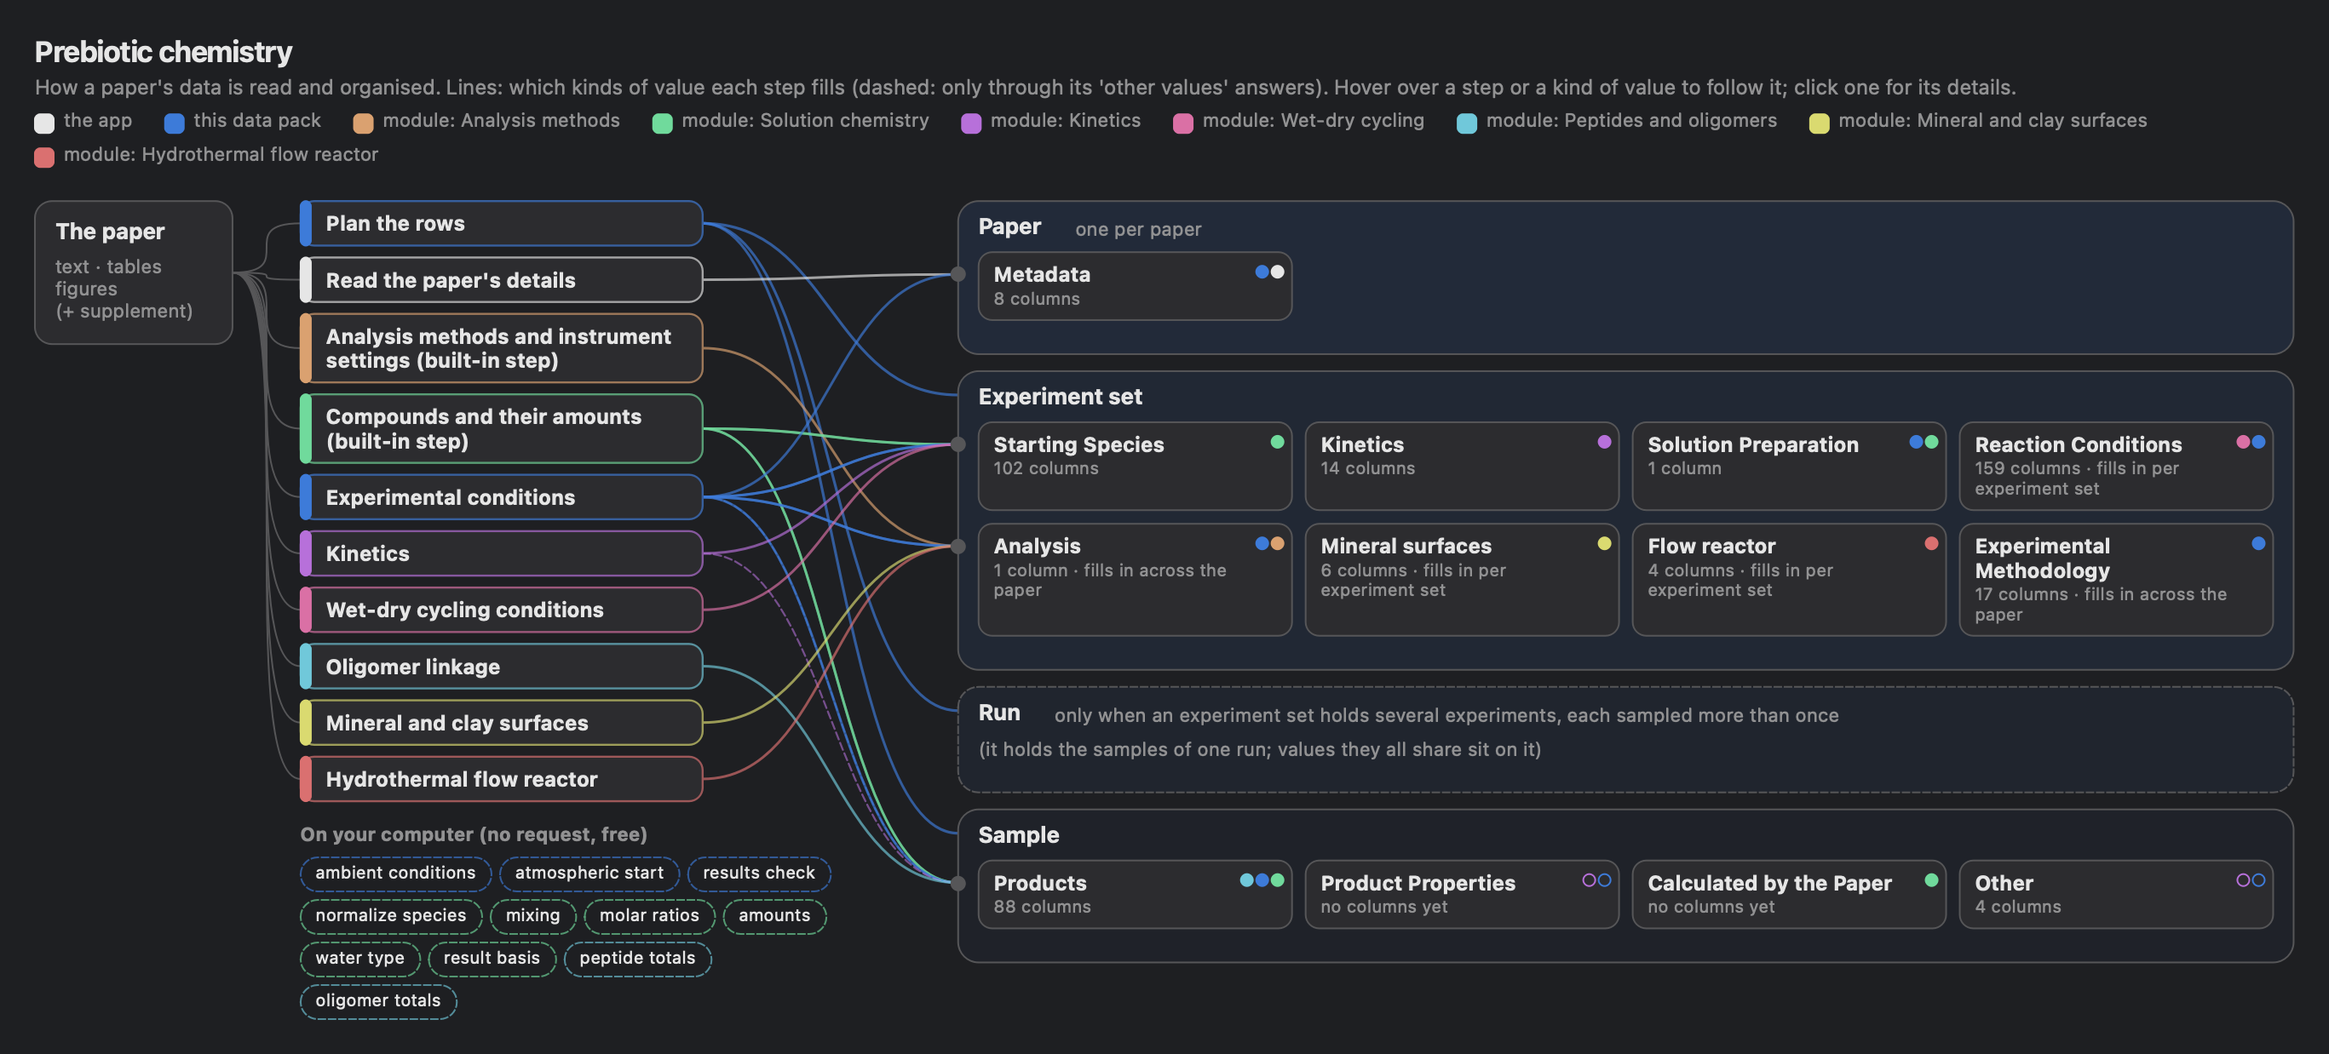
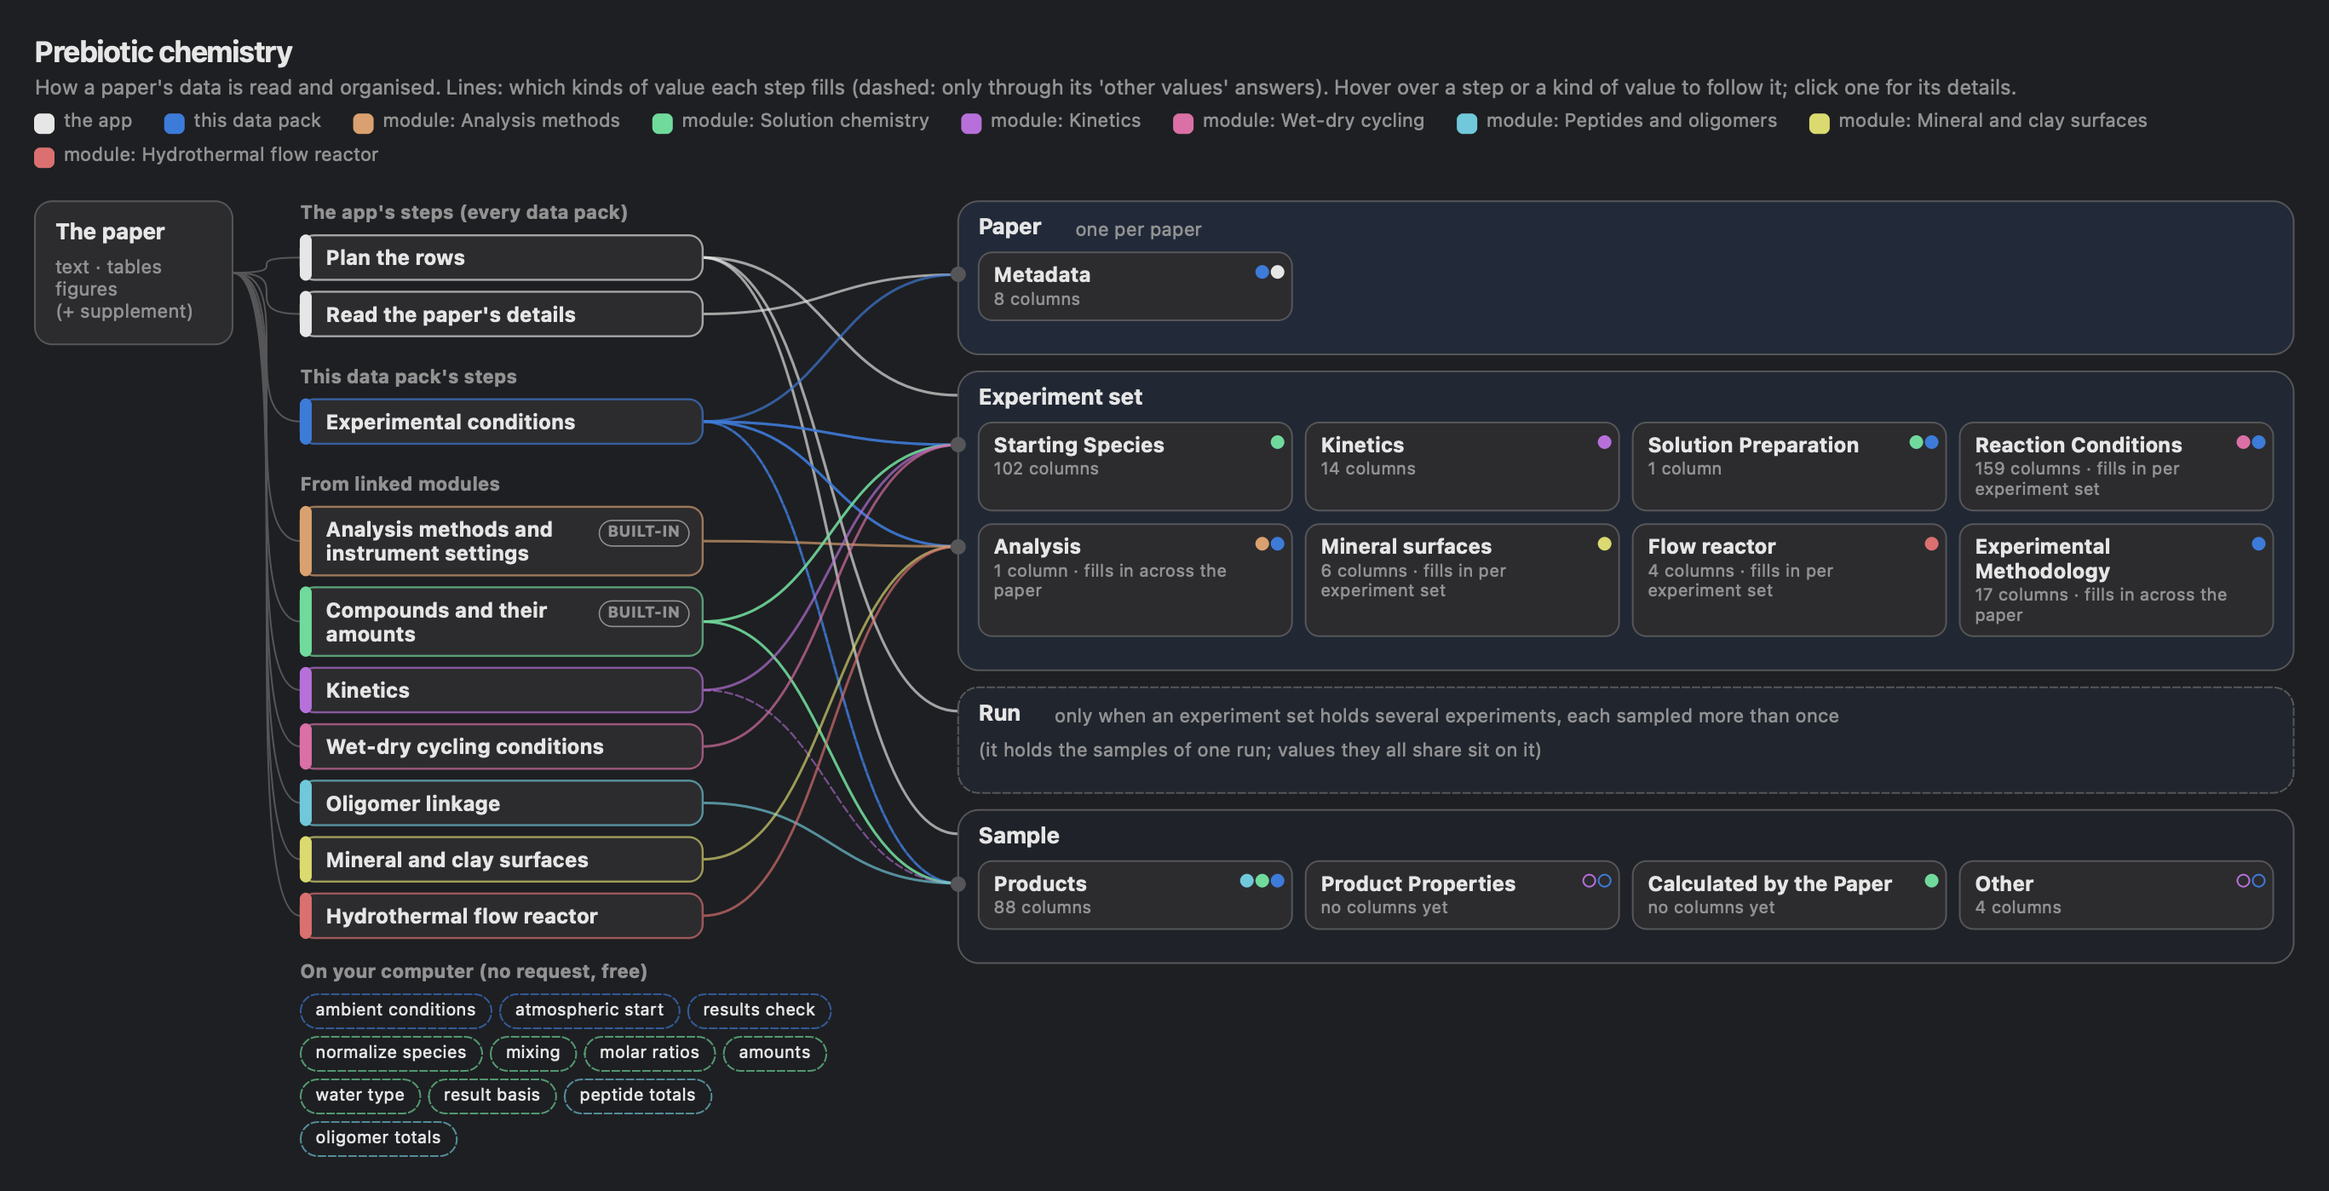
levels-and-facets: Map steps grouped by source (the app's, this pack's, linked modules') with a BUILT-IN tag, levels fade on hover unless they hold what's lit; the Variable categories window (and Structure page) no longer draw replaced cell widgets over a refill

Changed region(s): [[0.0, 0.0307, 0.9949, 0.9822], [0.9638, 0.8288, 0.9949, 0.8595], [0.9638, 0.7367, 0.9949, 0.7674]]

diff --git a/src/parameter_extractor/gui/structure_canvas.py b/src/parameter_extractor/gui/structure_canvas.py
@@ -43,6 +43,7 @@ TAGS = 1         # item data: the steps and kinds a line or dot connects (frozen
 BODY = 2         # item data: a step's or card's outline (outlined in the accent colour while hovered)
 PEN = 3          # item data: its own pen, put back after
 TARGET = 4       # item data: a part without hovering that can still be opened elsewhere ("level:<id>", "paper")
+LANE = 5         # item data: a level's lane and its words (lit while what's hovered has a kind of value in it)
 
 
 @dataclass
@@ -55,6 +56,12 @@ class Step:
     kinds: List[str] = field(default_factory=list)       # category ids its columns belong to
     other_kinds: List[str] = field(default_factory=list)  # kinds only its 'other values' answers may fill
     makes_rows: bool = False
+    built_in: bool = False      # written in the app's code (its instructions fixed) -- not a configurable step
+    own_prompt: bool = False    # an app step following this data pack's own prompt (the row plan's rules)
+
+
+APP_STEPS = ("structure_planner", "metadata")    # every data pack has them
+BUILT_IN = " (built-in step)"
 
 
 @dataclass
@@ -147,7 +154,15 @@ def structure_of(pack) -> Structure:
             cid = order.category_of(column)
             if cid and cid not in found:
                 found.append(cid)
-        steps.append(Step(f.name, f.label, source, f.when, f.what, found, makes_rows=f.name == "structure_planner"))
+        own_prompt = f.name in APP_STEPS and source == "pack"
+        steps.append(Step(f.name, f.label.removesuffix(BUILT_IN), "app" if f.name in APP_STEPS else source, f.when,
+                          f.what, found, makes_rows=f.name == "structure_planner",
+                          built_in=f.label.endswith(BUILT_IN), own_prompt=own_prompt))
+    # grouped by where they come from: the app's, this pack's, then each module's together (in the order first met)
+    first = {}
+    for st in steps:
+        first.setdefault(st.source, len(first))
+    steps.sort(key=lambda st: (0 if st.source == "app" else 1 if st.source == "pack" else 2, first[st.source]))
 
     # kinds of value only 'other values' answers fill: from every step that asks for other values
     filled = {k for st in steps for k in st.kinds}
@@ -270,6 +285,8 @@ class _Drawing:
             item.setData(TAGS, frozenset(tags))
 
 
+STEP_GROUPS = {"app": "The app's steps (every data pack)", "pack": "This data pack's steps",
+               "modules": "From linked modules"}
 FILL_TEXT = {"set": "fills in per {set}", "paper": "fills in across the paper", "none": ""}
 MANY = 99                                        # every line (the header, a lane's note)
 OPEN_LINES = 3                                   # an opened node: at most this many lines under its name
@@ -279,7 +296,8 @@ def brief(text: str) -> str:
     """The first sentence of a description, without its asides in brackets (the other tabs have it whole)."""
     import re
     first = re.split(r"(?<=[.;])\s+(?=[A-Z])", (text or "").strip(), maxsplit=1)[0].rstrip(".;")
-    return re.sub(r"\s*\([^)]*\)", "", first).strip()
+    first = re.sub(r"^Extracts (the )?", "", re.sub(r"\s*\([^)]*\)", "", first).strip())   # what, not 'Extracts ...'
+    return first[:1].upper() + first[1:]
 
 
 def opened_lines(about: str, facts: List[str], font: QFont, width: float) -> List[str]:
@@ -346,18 +364,33 @@ def build_scene(pack, palette: Optional[QPalette] = None, opened: Optional[Set[s
     step_out: Dict[str, QPointF] = {}
     name_font = _font(NAME_PT, True)
     name_h = QFontMetricsF(name_font).height()
+    tag_font = _font(8.5, True)
+    tag_w = QFontMetricsF(tag_font).horizontalAdvance("BUILT-IN") + 10
+    group = None
     for st in s.steps:
         key = f"step:{st.name}"
         is_open = key in opened
-        source = "App" if st.source == "app" else "Data pack" if st.source == "pack" else f"{st.source} module"
+        here = "app" if st.source == "app" else "pack" if st.source == "pack" else "modules"
+        if here != group:                        # a heading where the steps' source changes
+            if group is not None:
+                y += 10
+            group = here
+            d.text(STEP_GROUPS[here], COL_STEPS, y, muted, 10.5, True)
+            y += 20
+        source = ("App, with this data pack's prompt" if st.own_prompt else "App") if st.source == "app" else \
+            "Data pack" if st.source == "pack" else f"{st.source} module"
         runs = "Always" if st.when.startswith("every paper") else "Conditional"
-        name = wrap(st.label, name_font, STEP_W - 24, 2)
+        tag = st.built_in and st.source != "app"     # the app's are all written in code: their heading says so
+        name = wrap(st.label, name_font, STEP_W - 24 - (tag_w + 6 if tag else 0), 2)
         more = opened_lines(brief(st.what), [f"Runs: {runs} · {source}"], sub_font, STEP_W - 24) if is_open else []
         height = 12 + len(name) * name_h + (len(more) * sub_h + 4 if more else 0)
         rect = QRectF(COL_STEPS, y, STEP_W, height)
         col = colors.get(st.source, text)
         d.box(rect, card, _mix(col, card, 0.35), 8, 1.2, key=key, body=True)
         d.box(QRectF(COL_STEPS, y, 6, height), col, col, 3, key=key)
+        if tag:                                  # written in the app's code, not a configurable step
+            d.box(QRectF(rect.right() - tag_w - 8, y + 8, tag_w, 15), card, muted, 7.5, 0.8, key=key)
+            d.text("BUILT-IN", rect.right() - tag_w - 3, y + 9, muted, 8.5, True, key)
         ty = d.lines(name, COL_STEPS + 15, y + 6, text, NAME_PT, True, key)
         d.lines(more, COL_STEPS + 15, ty + 3, muted, SUB_PT, False, key)
         step_out[st.name] = QPointF(rect.right(), rect.top() + 6 + name_h * min(len(name), 2) / 2)  # opened or not
@@ -390,6 +423,7 @@ def build_scene(pack, palette: Optional[QPalette] = None, opened: Optional[Set[s
     y = top
     card_in: Dict[str, QPointF] = {}
     lane_tops: List[float] = []
+    lane_kinds: Dict[str, Set[str]] = {}
     ports: Dict[int, Set[str]] = {}
 
     def fillers(k: Kind) -> Tuple[List[Step], List[Step]]:
@@ -429,10 +463,14 @@ def build_scene(pack, palette: Optional[QPalette] = None, opened: Optional[Set[s
             _font(10.5), LANES_W - 2 * LANE_PAD, MANY)
         height = lane_title + (sum(h + CARD_GAP for h in row_heights) if cards else len(empty) * 16 + 4) + LANE_PAD
         tint = _mix(window, accent, 0.04 + 0.03 * (len(s.levels) - 1 - i))
+        before = set(scene.items())
         d.box(QRectF(COL_LANES, y, LANES_W, height), tint, line, 12, 1.0, dashed=is_run).setData(TARGET, f"level:{lid}")
         d.text(title, COL_LANES + LANE_PAD, y + 7, text, 13, True)
         d.lines(note_lines, COL_LANES + LANE_PAD + title_w + 20, y + 10, muted, 10.5)
         d.lines(empty, COL_LANES + LANE_PAD, y + lane_title, muted, 10.5)
+        for item in set(scene.items()) - before:
+            item.setData(LANE, lid)
+        lane_kinds[lid] = {f"kind:{k.id}" for k in cards}
         lane_tops.append(y)
         cy = y + lane_title
         for row, row_h in zip(rows, row_heights):
@@ -466,8 +504,9 @@ def build_scene(pack, palette: Optional[QPalette] = None, opened: Optional[Set[s
         col = QColor(colors.get(st.source, text))
         col.setAlpha(170)
         if st.makes_rows:
-            for top_y in lane_tops[1:]:
+            for (lid, _label, _note), top_y in list(zip(s.levels, lane_tops))[1:]:
                 d.curve(start, QPointF(COL_LANES, top_y + 14), col, 1.6, tags={key})
+                relations.setdefault(key, set()).add(f"level:{lid}")
             continue
         faint = QColor(col)
         faint.setAlpha(90)
@@ -483,6 +522,7 @@ def build_scene(pack, palette: Optional[QPalette] = None, opened: Optional[Set[s
     scene.relations = relations
     scene.accent = accent
     scene.structure = s
+    scene.lane_kinds = lane_kinds
     return scene
 
 
@@ -605,6 +645,7 @@ class StructureCanvas(QGraphicsView):
         self._hovered = key
         related = ({key} | getattr(scene, "relations", {}).get(key, set())) if key else set()
         accent = getattr(scene, "accent", self.palette().color(QPalette.ColorRole.Highlight))
+        lane_kinds = getattr(scene, "lane_kinds", {})
         for item in scene.items():
             own, tags = item.data(KEY), item.data(TAGS)
             if item.data(BODY):
@@ -615,6 +656,10 @@ class StructureCanvas(QGraphicsView):
                 item.setOpacity(1.0 if own in related else FADED)
             elif tags:
                 item.setOpacity(1.0 if key in tags else FADED)
+            elif item.data(LANE):                   # a level: lit when it holds what's lit (the row plan: every level)
+                lane = item.data(LANE)
+                lit = f"level:{lane}" in related or related & lane_kinds.get(lane, set())
+                item.setOpacity(1.0 if lit else FADED)
 
     def mouseMoveEvent(self, event) -> None:
         super().mouseMoveEvent(event)

diff --git a/tests/test_structure_canvas.py b/tests/test_structure_canvas.py
@@ -65,8 +65,25 @@ def test_hovering_highlights_a_step_and_what_it_fills():
             assert item.opacity() == 1.0                                   # its lines stay
         elif own or tags:
             assert item.opacity() == FADED                                 # everything else fades
+    from parameter_extractor.gui.structure_canvas import LANE
+    lanes = {item.data(LANE): item.opacity() for item in scene.items() if item.data(LANE)}
+    assert lanes["paper"] == 1.0 and lanes["sample"] == FADED              # a level holding nothing it fills fades
     canvas.highlight(None)
     assert all(item.opacity() == 1.0 for item in scene.items())
+    canvas.highlight("step:structure_planner")                             # the row plan makes the groups and rows
+    lanes = {item.data(LANE): item.opacity() for item in scene.items() if item.data(LANE)}
+    assert lanes["set"] == lanes["sample"] == 1.0 and lanes["paper"] == FADED
+    canvas.highlight(None)
+
+
+def test_steps_are_grouped_by_where_they_come_from():
+    from parameter_extractor.gui.structure_canvas import structure_of
+    s = structure_of(packs.activate("prebiotic_chemistry"))
+    order = [0 if st.source == "app" else 1 if st.source == "pack" else 2 for st in s.steps]
+    assert order == sorted(order) and [st.name for st in s.steps[:2]] == ["structure_planner", "metadata"]
+    modules = [st.source for st in s.steps if order[s.steps.index(st)] == 2]
+    assert all(modules.index(m) == i or modules[i - 1] == m for i, m in enumerate(modules))   # a module's together
+    assert not any("(built-in step)" in st.label for st in s.steps) and any(st.built_in for st in s.steps[2:])
 
 
 def test_clicking_opens_a_step_or_kind_in_place():

diff --git a/src/parameter_extractor/gui/structure_page.py b/src/parameter_extractor/gui/structure_page.py
@@ -17,6 +17,8 @@ from PySide6.QtCore import Qt
 from PySide6.QtWidgets import (QComboBox, QFormLayout, QHBoxLayout, QHeaderView, QLabel, QLineEdit, QPushButton,
                                QSpinBox, QTableWidget, QTableWidgetItem, QToolButton, QVBoxLayout, QWidget)
 
+from parameter_extractor.gui.widgets import clear_cell_widgets
+
 RESERVED = {"figure", "assumed"}
 
 
@@ -232,6 +234,7 @@ class StructurePage(QWidget):
         self._fill()
 
     def _fill(self) -> None:
+        clear_cell_widgets(self.table)                 # refilled in an open window: the old ones away now
         self.table.setRowCount(len(self._kinds))
         for r, k in enumerate(self._kinds):
             name = QTableWidgetItem(k["label"])
@@ -263,6 +266,7 @@ class StructurePage(QWidget):
         self.fill_changed = True
 
     def _fill_columns(self) -> None:
+        clear_cell_widgets(self.columns)               # refilled in an open window: the old ones away now
         self.columns.setRowCount(len(self._column_fill))
         for r, (column, fill) in enumerate(sorted(self._column_fill.items())):
             name = QTableWidgetItem(column)

diff --git a/tests/test_columns_categories.py b/tests/test_columns_categories.py
@@ -97,6 +97,20 @@ def test_the_map_opens_the_tab_where_a_part_is_edited():
     e.close()
 
 
+def test_the_categories_window_refills_without_leftovers():
+    """Choosing another data pack in the Variable categories window: only the new rows' controls are shown (the
+    replaced ones used to stay drawn while the window was open from another window)."""
+    from PySide6.QtWidgets import QComboBox
+    from parameter_extractor.gui.categories_dialog import CategoriesDialog
+    packs.activate("prebiotic_chemistry")
+    with tempfile.TemporaryDirectory() as tmp:
+        dlg = CategoriesDialog(Path(tmp) / "r.json")
+        dlg.area_combo.setCurrentIndex(dlg.area_combo.findData("exoplanets"))
+        shown = [c for c in dlg.table.findChildren(QComboBox) if c.parentWidget().isVisibleTo(dlg)]
+        assert len(shown) == dlg.table.rowCount()
+        dlg.close()
+
+
 if __name__ == "__main__":
     for name, fn in list(globals().items()):
         if name.startswith("test_") and callable(fn):

diff --git a/src/parameter_extractor/gui/categories_dialog.py b/src/parameter_extractor/gui/categories_dialog.py
@@ -22,7 +22,7 @@ from PySide6.QtWidgets import (QAbstractItemView, QStyledItemDelegate, QCheckBox
 
 from parameter_extractor.gui import themes
 from parameter_extractor import packs, variable_categories as vc
-from parameter_extractor.gui.widgets import RowSeparatorDelegate, in_cell, style_rows
+from parameter_extractor.gui.widgets import RowSeparatorDelegate, clear_cell_widgets, in_cell, style_rows
 from parameter_extractor.registry import STANDARD, VariableRegistry, areas
 
 FORMATS = {"number": "One number with a unit", "text": "Text", "any": "Number or text"}
@@ -120,6 +120,7 @@ class CategoriesDialog(QDialog):
         try:
             rows = self.rows()
             t = self.table
+            clear_cell_widgets(t)
             t.setRowCount(len(rows))
             for r, row in enumerate(rows):
                 for c, field in ((C_ID, "id"), (C_LABEL, "label"), (C_DESC, "description")):

diff --git a/src/parameter_extractor/gui/widgets.py b/src/parameter_extractor/gui/widgets.py
@@ -173,6 +173,18 @@ def in_cell(widget: QWidget) -> QWidget:
     return holder
 
 
+def clear_cell_widgets(table) -> None:
+    """Take a table's cell widgets away now. Replaced ones are only deleted later, by the event loop they were replaced
+    in -- in a window opened with exec() from a handler that is not until it closes, so a refill drew them in their
+    old places over the new ones (2026-11-19: the Variable categories window after choosing another data pack)."""
+    for r in range(table.rowCount()):
+        for c in range(table.columnCount()):
+            w = table.cellWidget(r, c)
+            if w is not None:
+                w.hide()
+                table.removeCellWidget(r, c)
+
+
 class CollapsibleSection(QWidget):
     """A titled group of settings, closed until its title is clicked (Mickey, 2026-11-12: the run options). Add the
     settings to `body` (a QVBoxLayout)."""

diff --git a/docs/history/2026-11.md b/docs/history/2026-11.md
@@ -2522,3 +2522,22 @@ no request and no CSV.
   one test hung in macOS Vision's text recognition during the first full check and passed on its own rerun).
 - tests/test_columns_categories.py (editing a kind beside its columns, a shared one read-only, adding and removing,
   saved in pack.json; the Map's actions open the right tabs).
+
+## Branch levels-and-facets: Map steps grouped by source, levels fade on hover; the Variable categories window's leftover controls (2026-11-19, Mickey: levels with nothing of a hovered step fade like the nodes; the categories window drew controls over its cells; make clear where a step comes from -- the app, a built-in step, a module, the data pack -- and set the modules' steps apart)
+
+- Hover: a level's lane, its name and note fade unless it holds a kind of value that is lit (`LANE` item data,
+  `scene.lane_kinds`); the row plan lights the levels it makes (its relations include `level:<id>`).
+- Steps column in three groups under small headings: "The app's steps (every data pack)" (Plan the rows, Read the
+  paper's details -- always the app's, also when the pack has its own row-plan prompt: "App, with this data pack's
+  prompt" when opened), "This data pack's steps", "From linked modules" (a module's steps together, in the legend's
+  order). "(built-in step)" left the names: a step written in the app's code (not a configurable one) carries a
+  BUILT-IN tag instead (`Step.built_in`; the app's steps are all built in, their heading says whose they are). Brief
+  descriptions say what, not "Extracts the ...". The Overview tab's labels are unchanged.
+- Variable categories window: choosing another data pack drew the previous rows' combo and spin boxes over the new
+  cells. A replaced cell widget is only deleted later by the event loop it was replaced in -- for a window opened with
+  exec() from another window's handler that is after it closes (removed rows' widgets are hidden at once, replaced
+  ones are not). `widgets.clear_cell_widgets` hides and removes them before a refill; also in the Structure page's
+  tables, which the Columns tab's panel now refills while the editor is open. Pre-existing; it showed when the
+  window opened on a pack other than the current one.
+- Tests: levels fading, the grouping (tests/test_structure_canvas.py); the window's refill
+  (tests/test_columns_categories.py).

diff --git a/docs/history/README.md b/docs/history/README.md
@@ -164,3 +164,4 @@ current month's file (start `YYYY-MM.md` in a new month), with one line here.
 - Branch levels-and-facets: structure canvas, visual pass 1 -- compact nodes that open on a click (2026-11-19, Mickey)
 - Branch levels-and-facets: structure canvas, visual pass 2 -- brief opened nodes (2026-11-19, Mickey)
 - Branch levels-and-facets: the kinds of value in the Columns tab; the Map opens the editor's tabs (2026-11-19, Mickey)
+- Branch levels-and-facets: Map steps grouped by source, levels fade on hover; the categories window's leftover controls (2026-11-19, Mickey)
